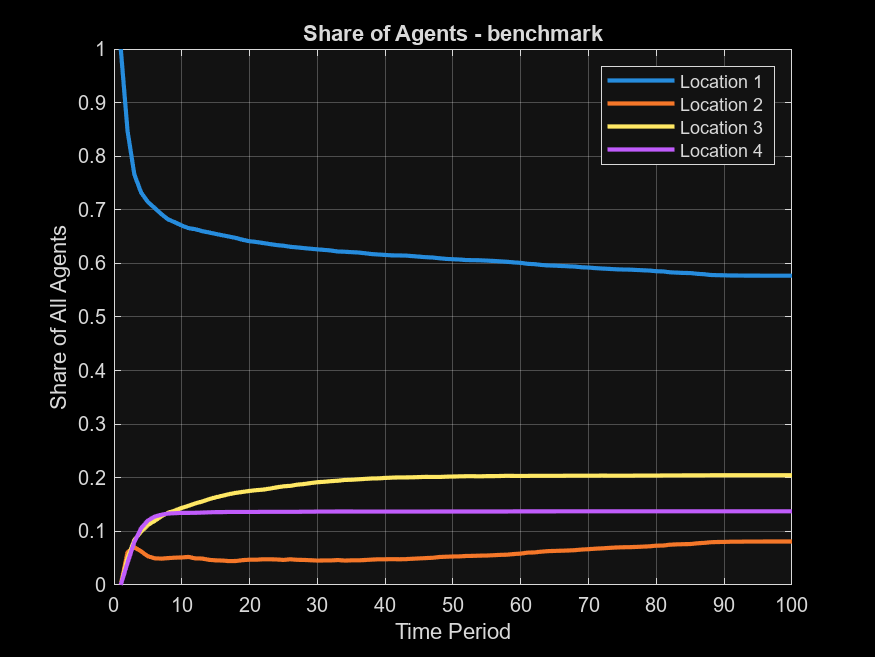
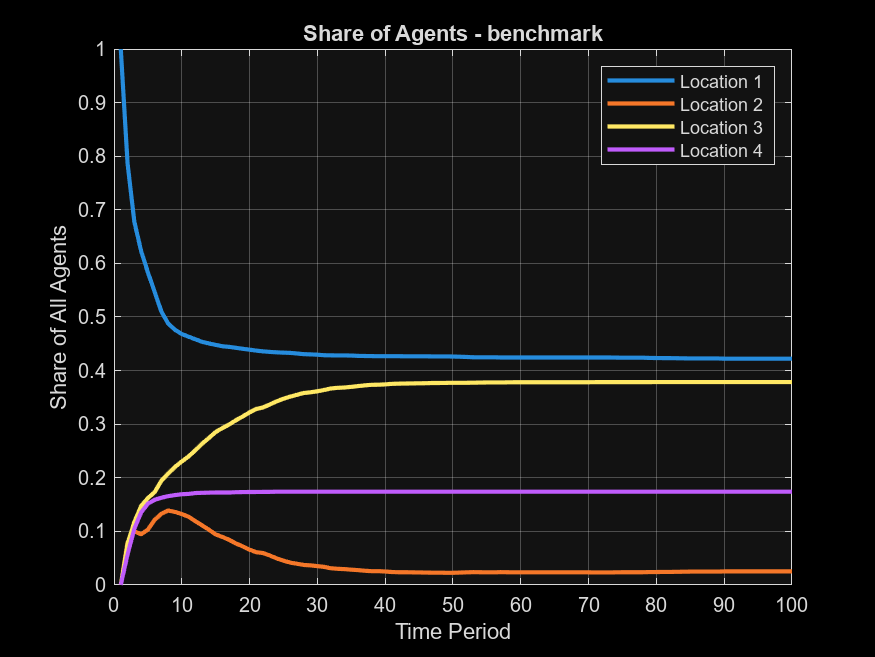
comit

diff --git a/Main.m b/Main.m
@@ -78,7 +78,7 @@ transportAid.wealthThreshold = 13;                              % Eligible if as
 transportAid.massIncrease    = 0.90* ones(dims.N, 1);          % Additional migrant mass outside destination 2
 transportAid.massIncrease(2) = 0;                               % No artificial mass for location 2
 transportAid.massIncrease(1) = 0;                               % No artificial mass for location 2
-transportAid.budget          = 2000;                            % Total funds E for the program
+transportAid.budget          = 3000;                            % Total funds E for the program
 
 try
     [pol_transport, M_transport, it_transport, ~] = solveDynamicEquilibrium( ...
@@ -116,10 +116,10 @@ fprintf('\nEvaluating food-and-shelter aid counterfactual...\n');
 shelterAid = struct();
 shelterAid.type             = 'shelter';
 shelterAid.startPeriod      = 1;             % Transfers available from period 4
-shelterAid.wealthThreshold  = 7;             % Eligible if asset index ≤ 5
+shelterAid.wealthThreshold  = 8;             % Eligible if asset index ≤ 5
 shelterAid.transferAmount   = 0.7;          % Wealth transfer when aid is granted
-shelterAid.grantProbability = 0.60;          % Probability of receiving a transfer
-shelterAid.budget           = 2000;           % Total funds for the program
+shelterAid.grantProbability = 0.90;          % Probability of receiving a transfer
+shelterAid.budget           = 3000;           % Total funds for the program
 
 try
     [pol_shelter, M_shelter, it_shelter, ~] = solveDynamicEquilibrium( ...

diff --git a/utils/setGridsAndIndices.m b/utils/setGridsAndIndices.m
@@ -33,15 +33,15 @@ function [grids, indexes] = setGridsAndIndices(dims)
 
     %% 1. Asset Grids (coarse and fine)
     lb.a		= 0;          % Lower bound of asset holdings
-    ub.a		= 32;         % Upper bound of asset holdings
+    ub.a		= 30;         % Upper bound of asset holdings
     ca			= 3;          % Curvature for coarse grid
 
     grids.agrid	= nodeunif(dims.Na, 0, (ub.a - lb.a)^(1/ca)).^ca + lb.a;
     grids.ahgrid= nodeunif(dims.na, lb.a, ub.a);
 
     %% 2. Productivity and Amenity Grids
-    grids.eta	= linspace(0.2, 5, dims.K);
-    grids.psi	= linspace(0.5, 2.2, dims.B);
+    grids.eta	= linspace(0.8, 4, dims.K);
+    grids.psi	= linspace(0.7, 2.2, dims.B);
 
     %% 3. Indexing for V (Main state grid): (S, Na, N)
     [I_s, I_a, I_N] = ndgrid(1:dims.S, 1:dims.Na, 1:dims.N);
